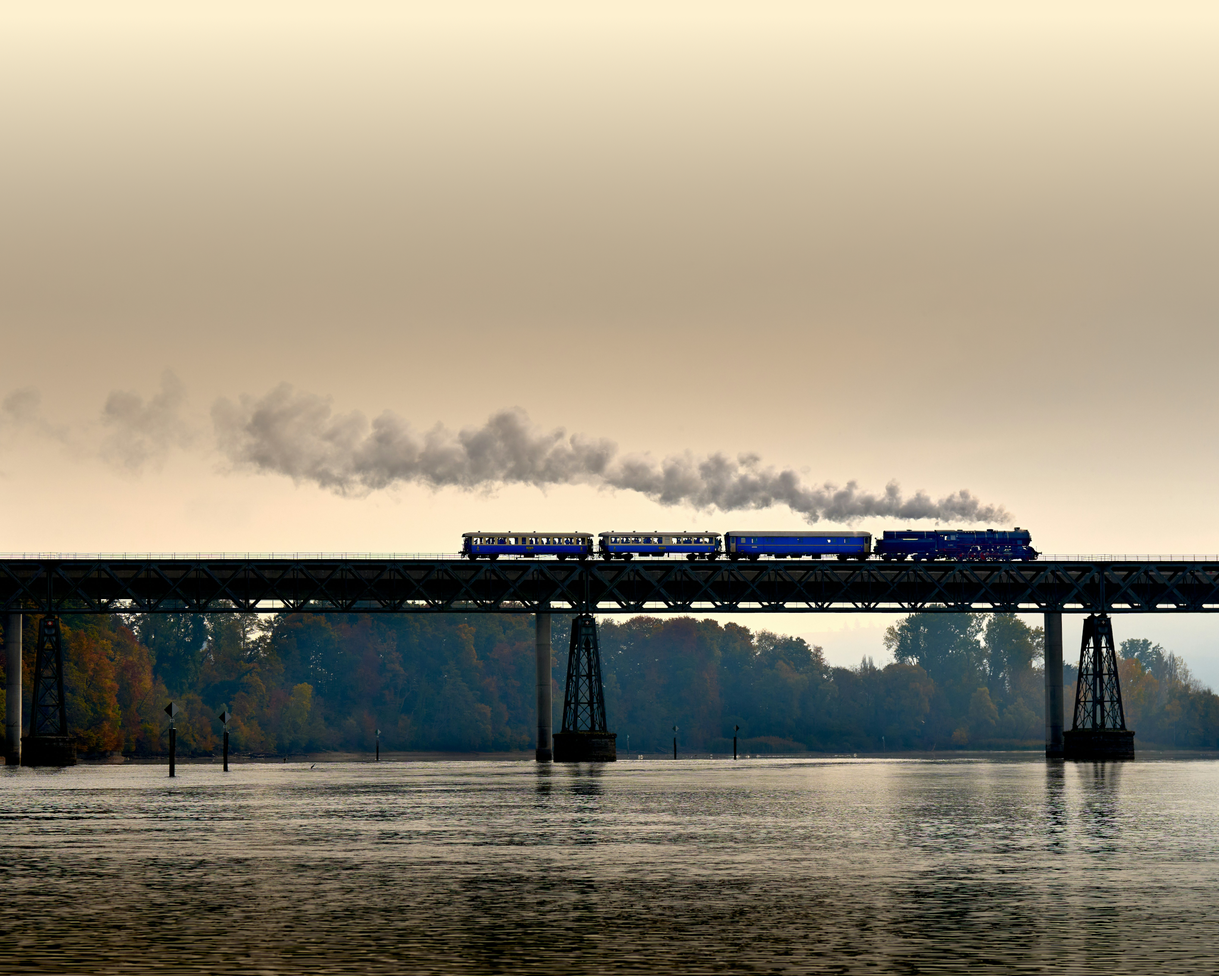
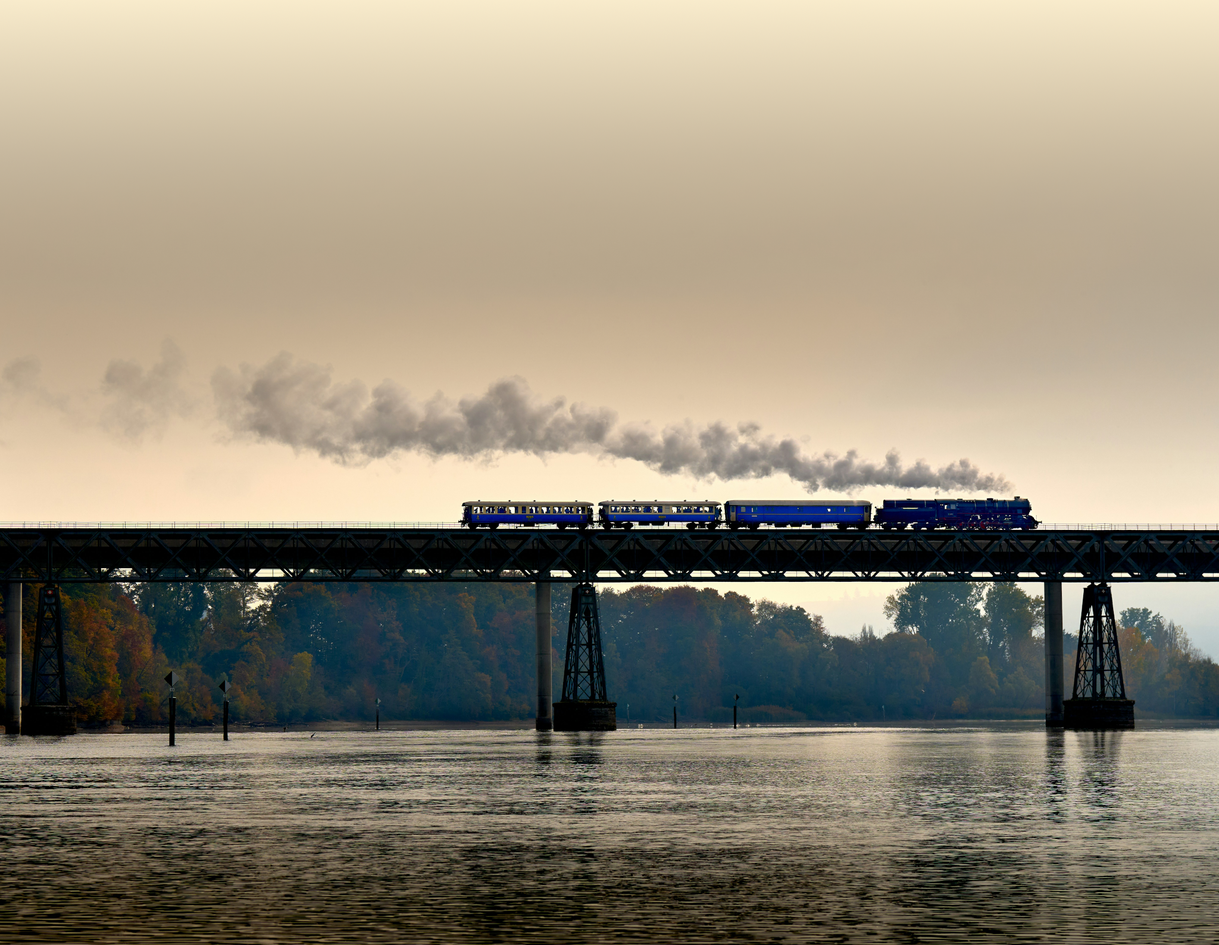
fade transition for the home page images

Changed region(s): [[0.0, 0.4014, 1.0, 1.0]]

diff --git a/docs/_static/scripts/home-background.js b/docs/_static/scripts/home-background.js
@@ -11,9 +11,12 @@
     "_static/images/home/home9.png",
     "_static/images/home/home10.png",
     "_static/images/home/home11.png",
+    "_static/images/home/home12.png",
   ];
   let previousImage;
   let refreshTimer;
+  let activeBackgroundBox;
+  let activeBackgroundLayer;
 
   function setRandomHomeBackground() {
     const backgroundBox = document.querySelector(".paragraph-bg-box");
@@ -27,8 +30,24 @@
       : homeBackgroundImages;
     const image = images[Math.floor(Math.random() * images.length)];
     previousImage = image;
-    backgroundBox.style.backgroundImage =
-      `url("${new URL(image, document.baseURI).href}")`;
+    const imageUrl = `url("${new URL(image, document.baseURI).href}")`;
+
+    if (backgroundBox !== activeBackgroundBox) {
+      activeBackgroundBox = backgroundBox;
+      activeBackgroundLayer = "a";
+      backgroundBox.style.setProperty("--home-background-image-a", imageUrl);
+      backgroundBox.classList.add("home-background-a");
+      backgroundBox.classList.remove("home-background-b");
+      return true;
+    }
+
+    activeBackgroundLayer = activeBackgroundLayer === "a" ? "b" : "a";
+    backgroundBox.style.setProperty(
+      `--home-background-image-${activeBackgroundLayer}`,
+      imageUrl
+    );
+    backgroundBox.classList.toggle("home-background-a", activeBackgroundLayer === "a");
+    backgroundBox.classList.toggle("home-background-b", activeBackgroundLayer === "b");
     return true;
   }
 

diff --git a/docs/index.md b/docs/index.md
@@ -29,14 +29,47 @@ hide:
 
 /* Custom container for your styled paragraphs */
 .paragraph-bg-box {
-    background-size: cover;
-    background-position-x: center;
-    background-position-y: top;
-    background-repeat: no-repeat;
+    position: relative;
+    isolation: isolate;
     padding: 20px;          /* Adds space inside the box so text doesn't touch edges */
     border-radius: 8px;     /* Optional: rounds the corners */
     color: black;
     margin-bottom: 1em;
+}
+
+.paragraph-bg-box::before,
+.paragraph-bg-box::after {
+    position: absolute;
+    inset: 0;
+    z-index: -1;
+    border-radius: inherit;
+    background-size: cover;
+    background-position: center top;
+    background-repeat: no-repeat;
+    content: "";
+    opacity: 0;
+    pointer-events: none;
+    transition: opacity 800ms ease-in-out;
+}
+
+.paragraph-bg-box::before {
+    background-image: var(--home-background-image-a);
+}
+
+.paragraph-bg-box::after {
+    background-image: var(--home-background-image-b);
+}
+
+.paragraph-bg-box.home-background-a::before,
+.paragraph-bg-box.home-background-b::after {
+    opacity: 1;
+}
+
+@media (prefers-reduced-motion: reduce) {
+    .paragraph-bg-box::before,
+    .paragraph-bg-box::after {
+        transition: none;
+    }
 }
 
 </style>
